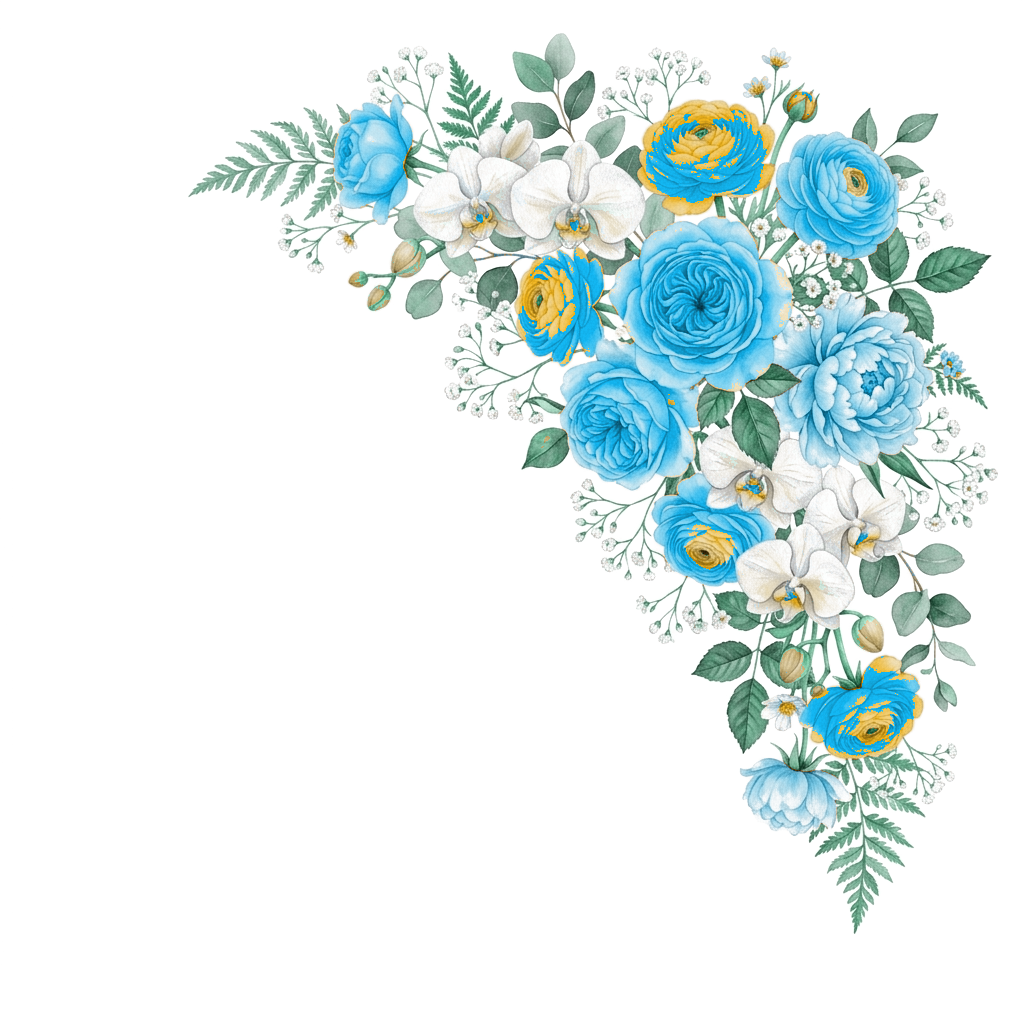
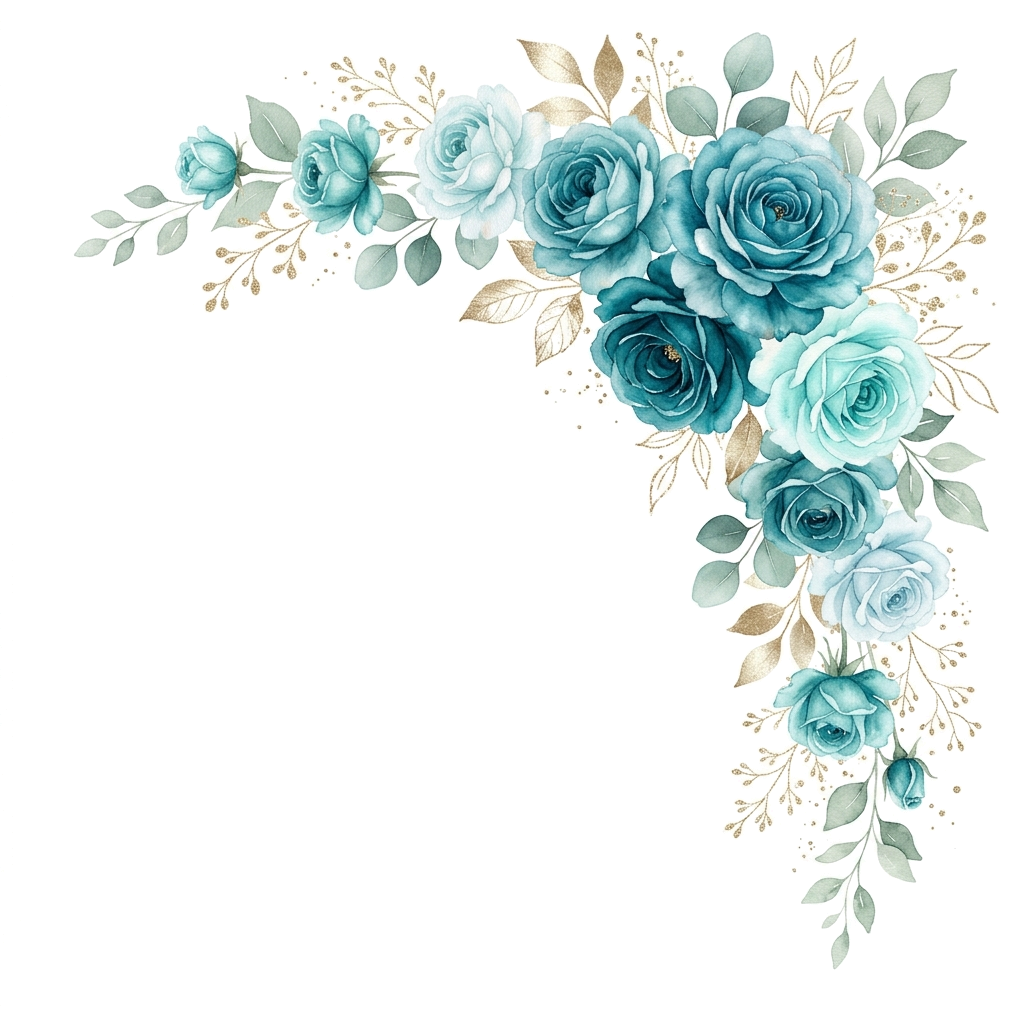
feat(alexadeharo): regenerate corner flowers using floral divider color and botanical arrangement

Changed region(s): [[0.0625, 0.0312, 0.9688, 0.9375]]

diff --git a/alexadeharo/index.html b/alexadeharo/index.html
@@ -43,7 +43,7 @@
     href="https://fonts.googleapis.com/css2?family=Alex+Brush&family=Cormorant+Garamond:ital,wght@0,400;0,500;0,600;0,700;1,400&family=Montserrat:wght@300;400;500;600;700&family=Playfair+Display:ital,wght@0,400;0,600;0,700;1,400&display=swap"
     rel="stylesheet">
 
-  <link rel="stylesheet" href="style.css?v=9.21.0" />
+  <link rel="stylesheet" href="style.css?v=9.22.0" />
 </head>
 
 <body>
@@ -246,7 +246,7 @@
 
       <!-- Luxury Corner Floral Arrangement in Top Right -->
       <div class="invitation-floral-frame" aria-hidden="true">
-        <img src="photos/rose-corner-tr.png?v=9.21.0" alt=""
+        <img src="photos/rose-corner-tr.png?v=9.22.0" alt=""
           class="invitation-flower-spray flower-card-top-right" />
       </div>
 
@@ -906,7 +906,7 @@
     <p class="footer-date" data-i18n="footer-date">Sunday, January 30, 2028</p>
   </footer>
 
-  <script src="main.js?v=9.21.0"></script>
+  <script src="main.js?v=9.22.0"></script>
 </body>
 
 </html>
